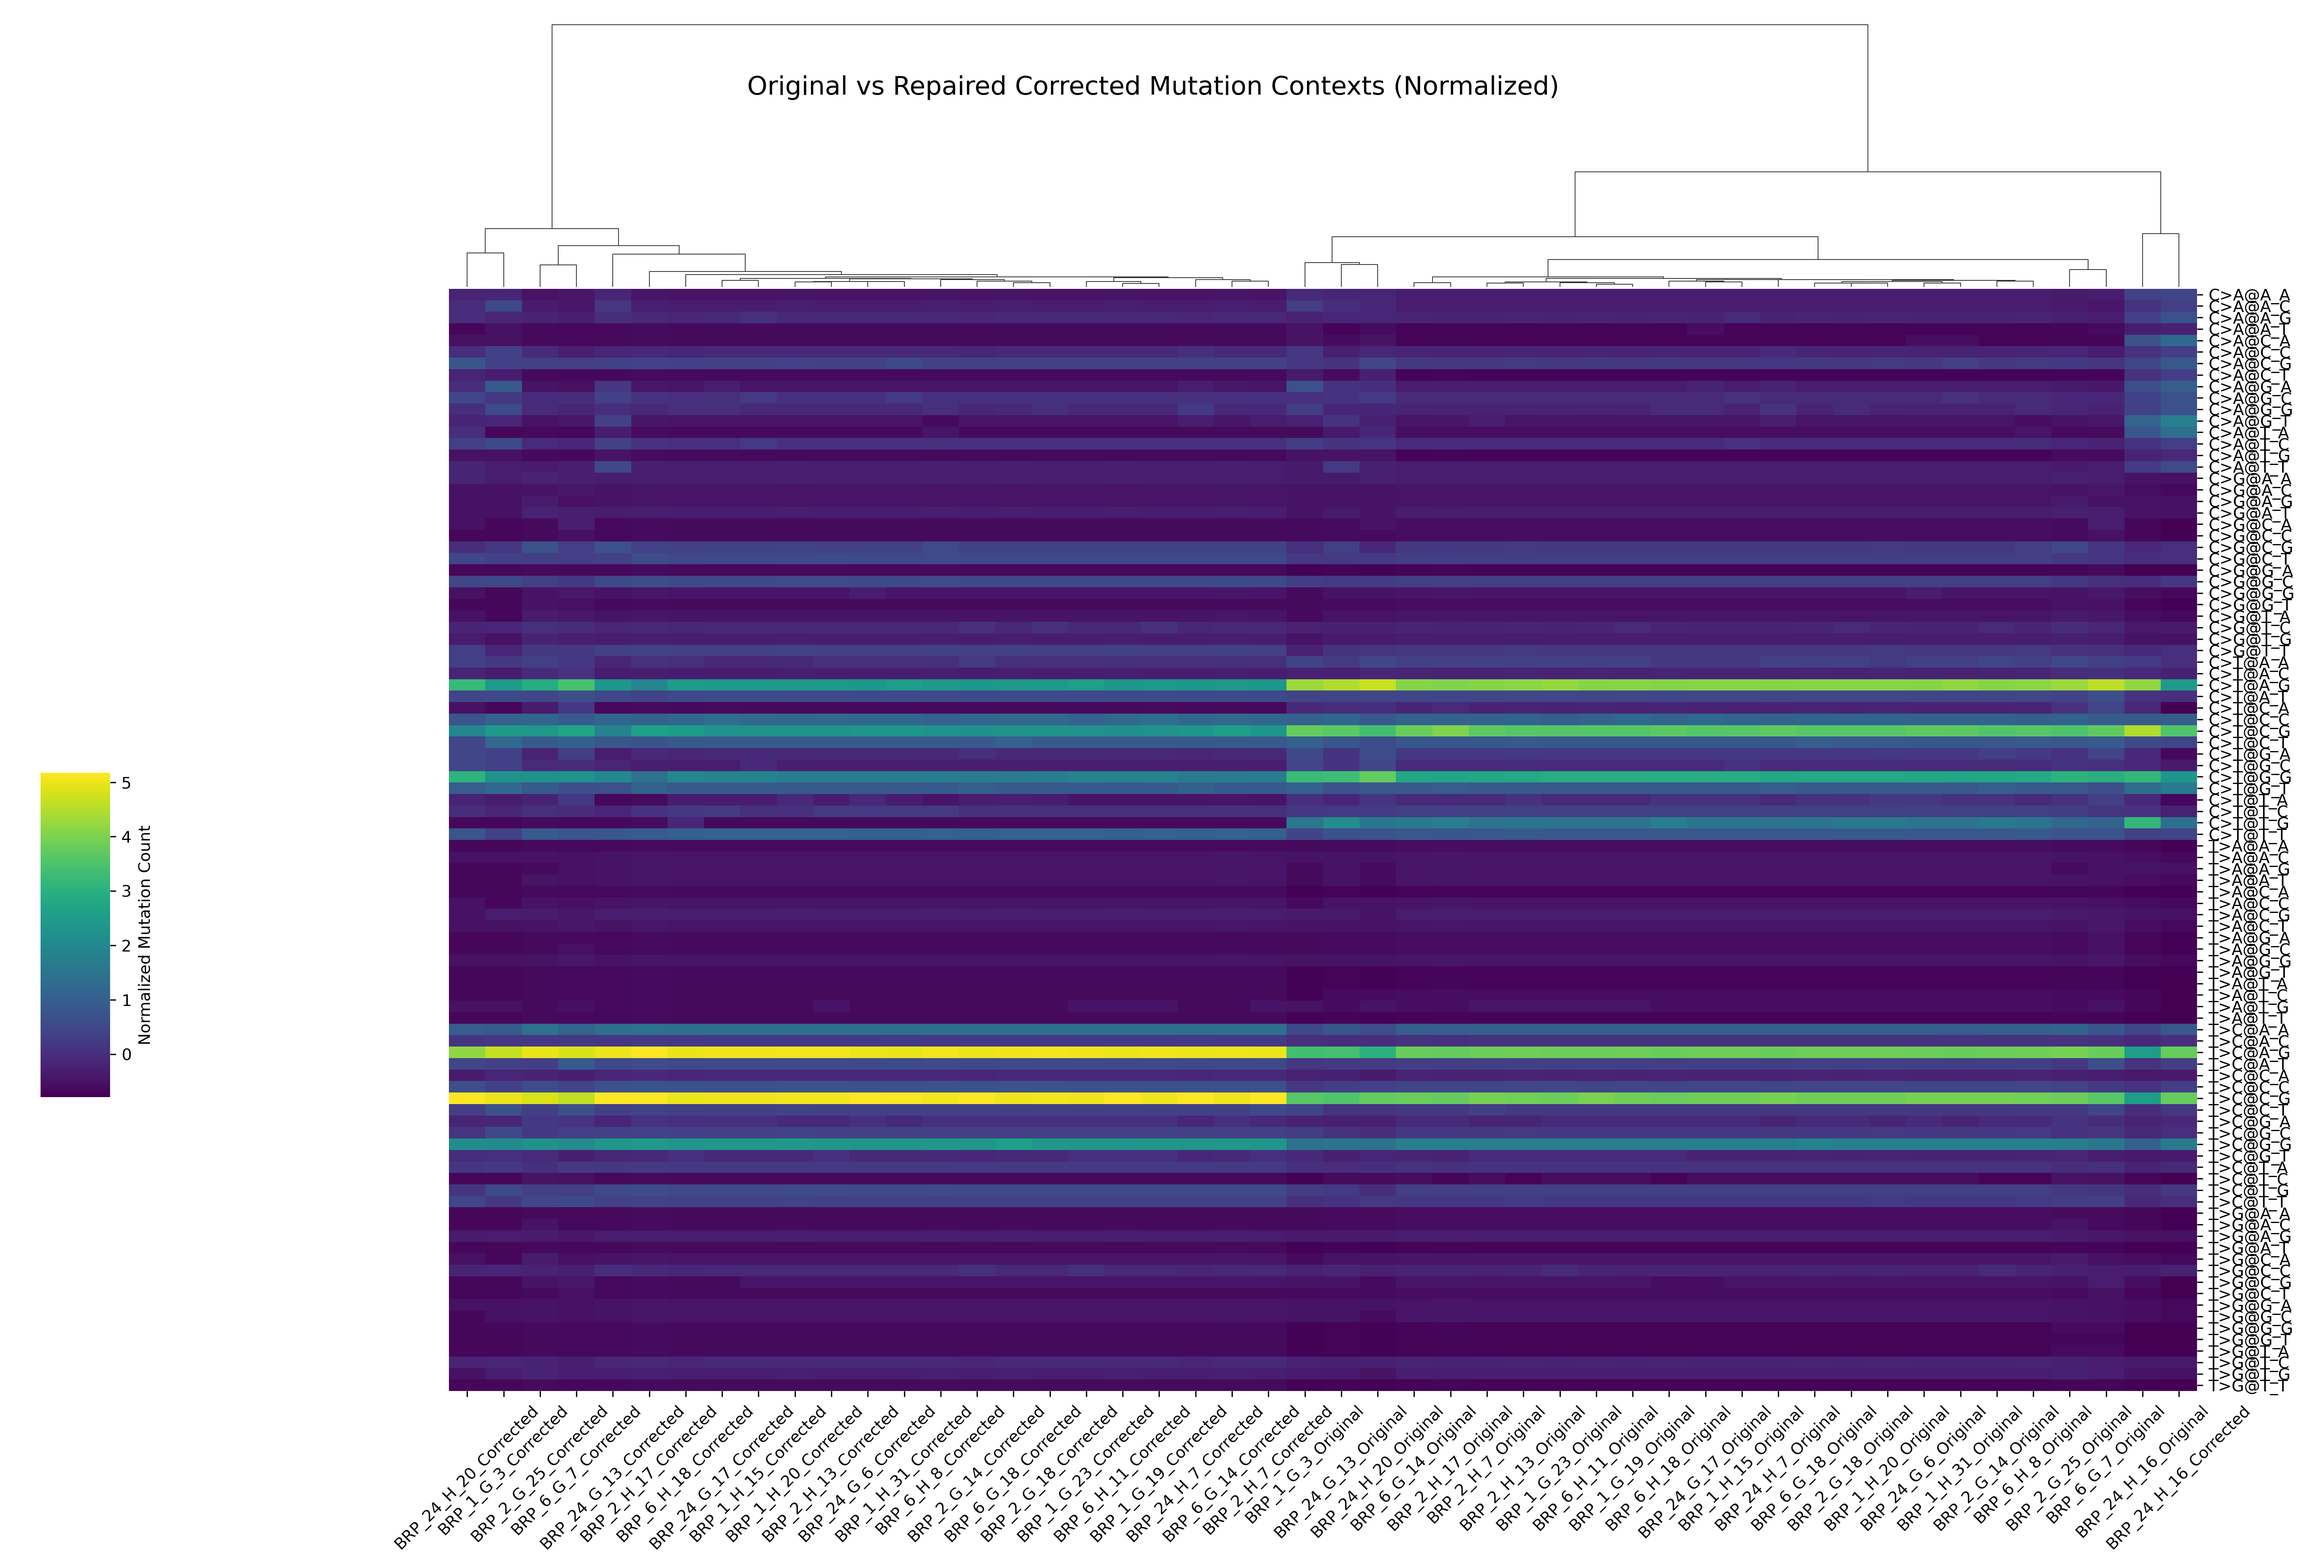
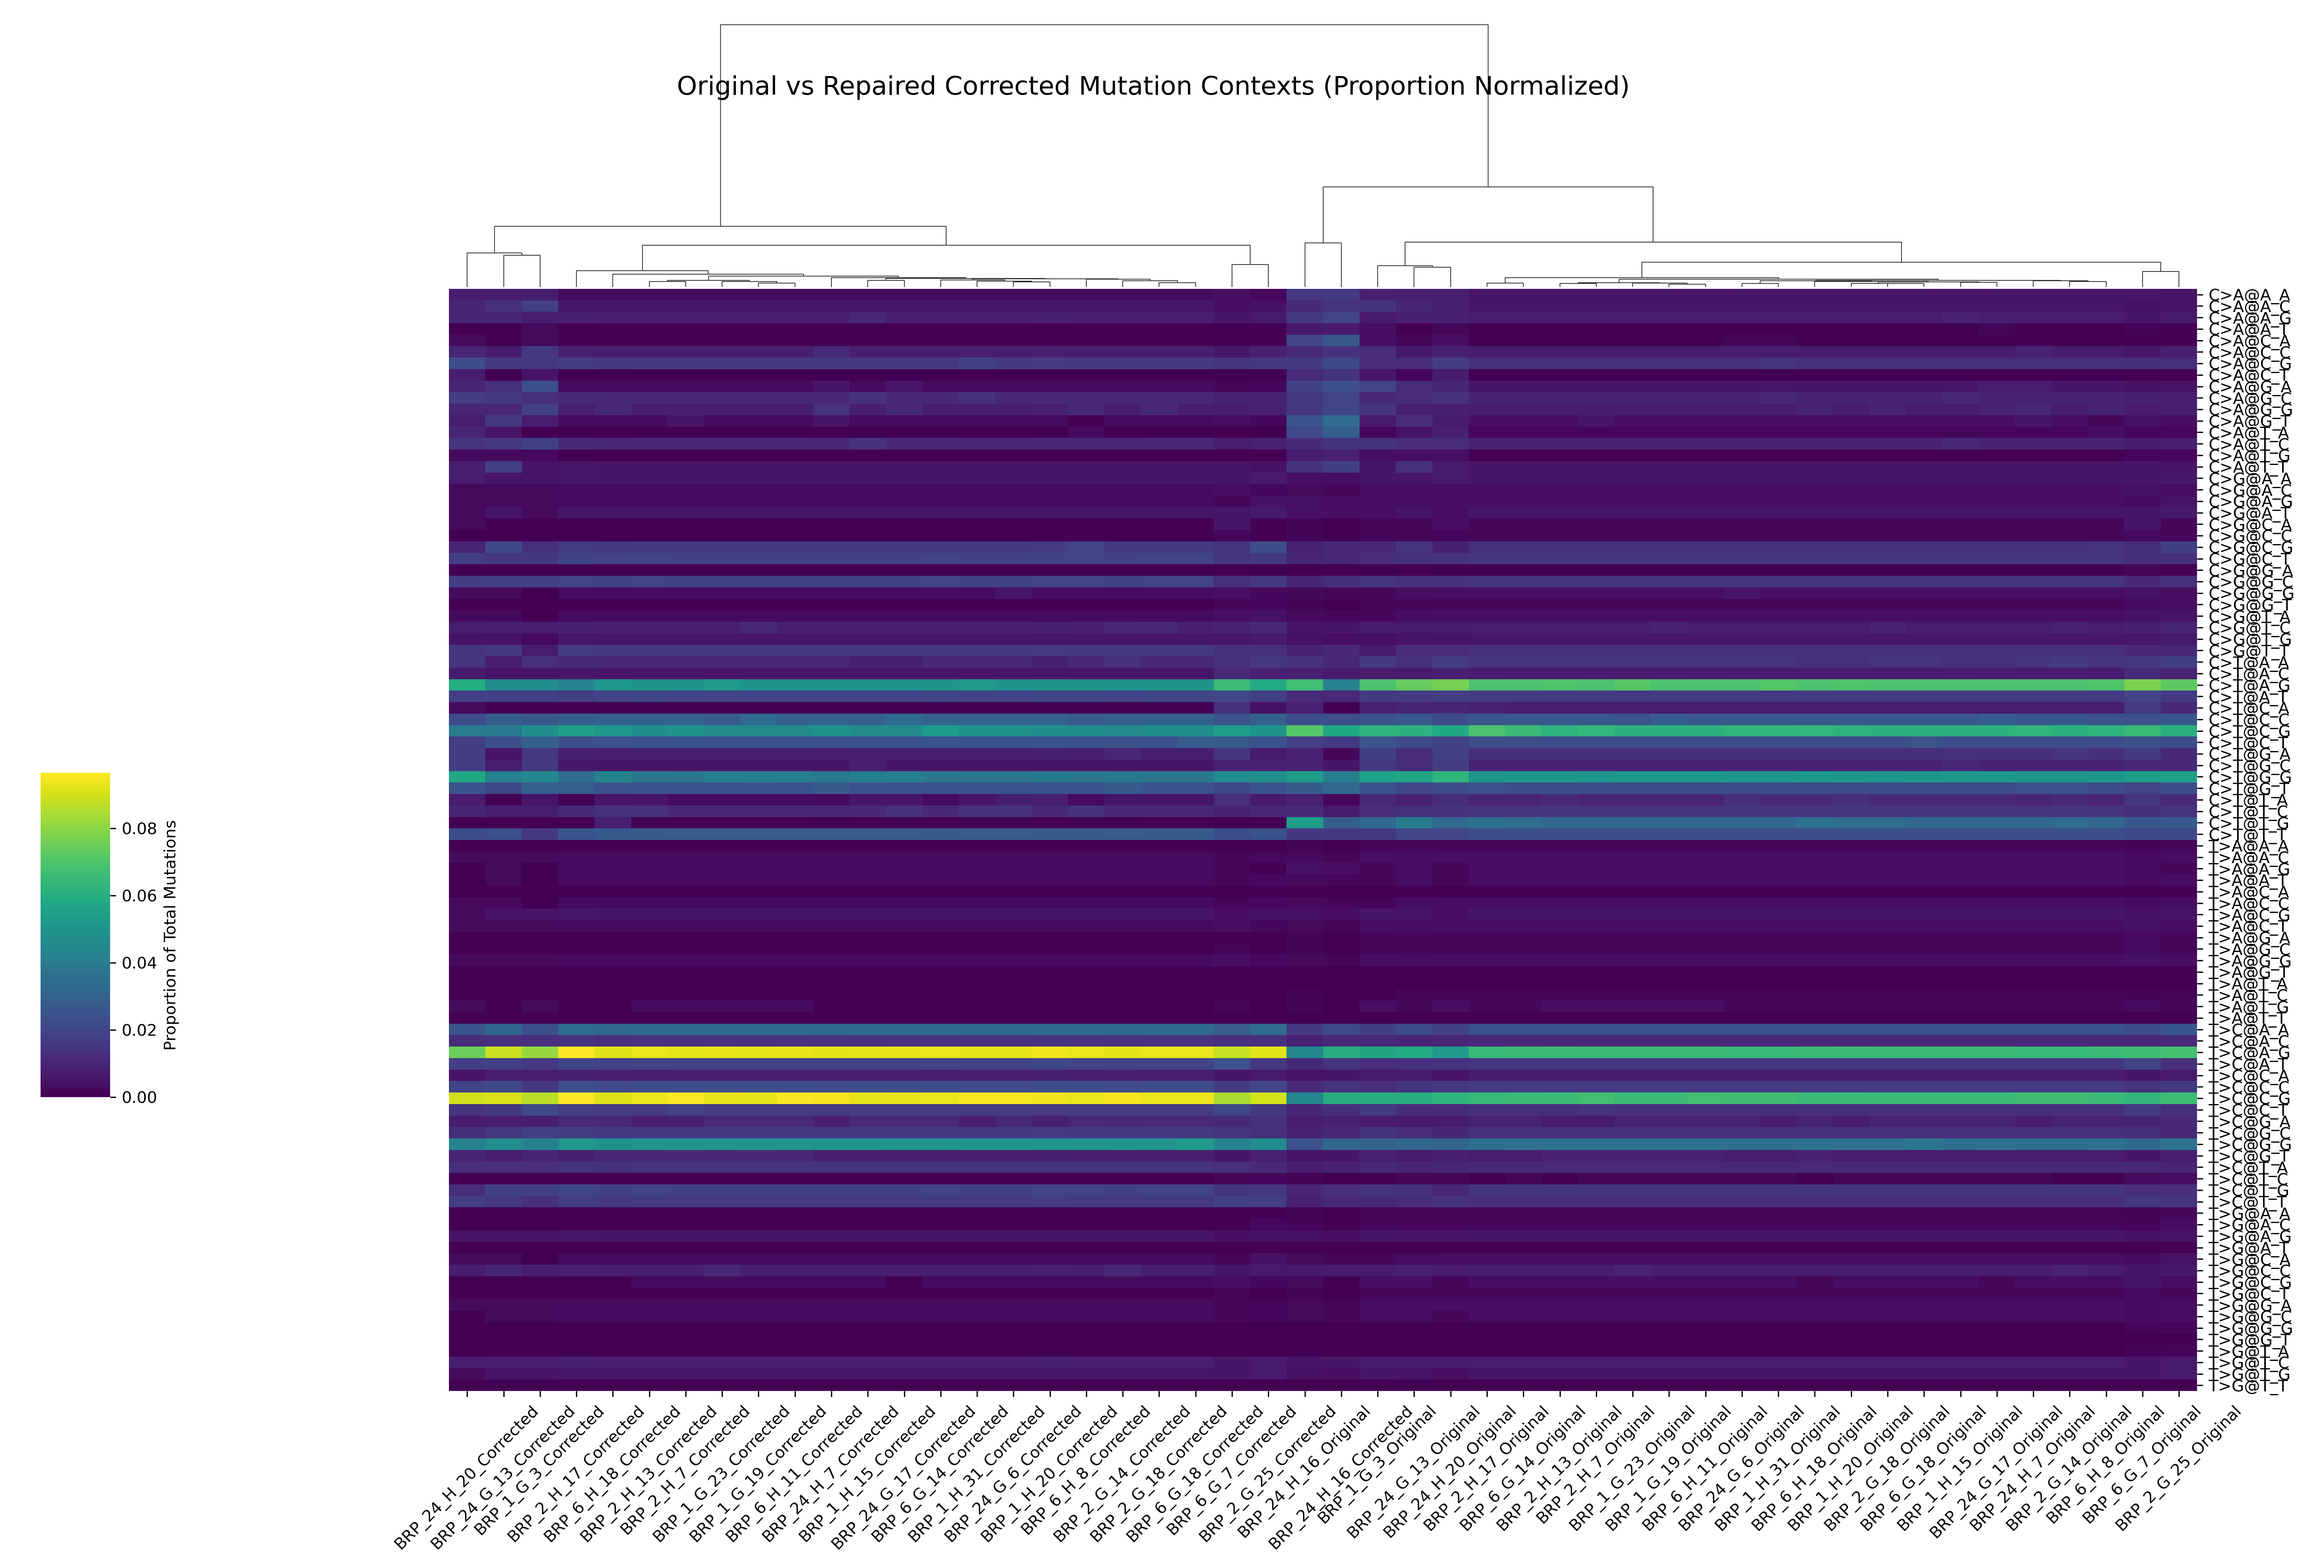
pca

diff --git a/scripts/heatmap.py b/scripts/heatmap.py
@@ -4,6 +4,8 @@ import seaborn as sns
 import os
 from pathlib import Path
 import numpy as np
+from sklearn.decomposition import PCA
+
 
 def create_heatmap(df, title, filename, figsize=(15, 12), cluster_samples=True):
     """
@@ -48,6 +50,145 @@ def create_heatmap(df, title, filename, figsize=(15, 12), cluster_samples=True):
         plt.savefig(filename, dpi=300, bbox_inches='tight')
         plt.close()
         print(f"✓ Saved {filename}")
+
+def create_pca_plot(df, title, filename, figsize=(12, 10)):
+    """
+    Create a PCA plot from a dataframe and save it
+    """
+    try:
+        # Transpose the dataframe so samples are rows and features are columns
+        df_t = df.T
+        
+        # Normalize by total counts per sample
+        df_scaled = df_t.copy()
+        for col in df_scaled.columns:
+            total_counts = df_scaled[col].sum()
+            if total_counts > 0:  # Avoid division by zero
+                df_scaled[col] = df_scaled[col] / total_counts
+        
+        # Perform PCA
+        pca = PCA()
+        pca_result = pca.fit_transform(df_scaled)
+        
+        # Calculate explained variance
+        explained_variance = pca.explained_variance_ratio_
+        cumulative_variance = np.cumsum(explained_variance)
+        
+        # Parse sample names to extract time and block information
+        def parse_sample_info(sample_name):
+            """Extract time and block from sample name like 'BRP_1_G_3'"""
+            parts = sample_name.split('_')
+            if len(parts) >= 3:
+                time = parts[1]  # e.g., '1', '2', '6', '24'
+                block = parts[2]  # e.g., 'G', 'H'
+                return time, block
+            return None, None
+        
+        # Create color mappings
+        times = []
+        blocks = []
+        for sample in df_t.index:
+            time, block = parse_sample_info(sample)
+            times.append(time)
+            blocks.append(block)
+        
+        # Create two separate PCA plots with different color schemes
+        
+        # Plot 1: Color by time
+        plt.figure(figsize=(10, 8))
+        time_colors = {'1': 'red', '2': 'blue', '6': 'green', '24': 'purple'}
+        time_color_list = [time_colors.get(t, 'gray') for t in times]
+        
+        scatter = plt.scatter(pca_result[:, 0], pca_result[:, 1], 
+                             c=time_color_list, s=100, alpha=0.7, 
+                             edgecolors='black', linewidth=0.5)
+        
+        # Add sample labels
+        for i, sample in enumerate(df_t.index):
+            plt.annotate(sample, (pca_result[i, 0], pca_result[i, 1]), 
+                        xytext=(5, 5), textcoords='offset points', 
+                        fontsize=8, alpha=0.8)
+        
+        plt.xlabel(f'PC1 ({explained_variance[0]:.1%} variance)')
+        plt.ylabel(f'PC2 ({explained_variance[1]:.1%} variance)')
+        plt.title('PCA of Mutation Profiles - Colored by Time')
+        
+        # Add legend for time colors
+        legend_elements = [plt.Line2D([0], [0], marker='o', color='w', 
+                                     markerfacecolor=color, markersize=10, 
+                                     label=f'{time}h') 
+                          for time, color in time_colors.items()]
+        plt.legend(handles=legend_elements, title='Time')
+        
+        plt.grid(True, alpha=0.3)
+        plt.tight_layout()
+        plt.savefig(filename, dpi=300, bbox_inches='tight')
+        plt.close()
+        
+        print(f"✓ Saved {filename}")
+        
+        # Plot 2: Color by block
+        block_filename = filename.replace('.png', '_by_block.png')
+        plt.figure(figsize=(10, 8))
+        block_colors = {'G': 'orange', 'H': 'cyan'}
+        block_color_list = [block_colors.get(b, 'gray') for b in blocks]
+        
+        scatter = plt.scatter(pca_result[:, 0], pca_result[:, 1], 
+                             c=block_color_list, s=100, alpha=0.7, 
+                             edgecolors='black', linewidth=0.5)
+        
+        # Add sample labels
+        for i, sample in enumerate(df_t.index):
+            plt.annotate(sample, (pca_result[i, 0], pca_result[i, 1]), 
+                        xytext=(5, 5), textcoords='offset points', 
+                        fontsize=8, alpha=0.8)
+        
+        plt.xlabel(f'PC1 ({explained_variance[0]:.1%} variance)')
+        plt.ylabel(f'PC2 ({explained_variance[1]:.1%} variance)')
+        plt.title('PCA of Mutation Profiles - Colored by Block')
+        
+        # Add legend for block colors
+        legend_elements = [plt.Line2D([0], [0], marker='o', color='w', 
+                                     markerfacecolor=color, markersize=10, 
+                                     label=f'Block {block}') 
+                          for block, color in block_colors.items()]
+        plt.legend(handles=legend_elements, title='Block')
+        
+        plt.grid(True, alpha=0.3)
+        plt.tight_layout()
+        plt.savefig(block_filename, dpi=300, bbox_inches='tight')
+        plt.close()
+        
+        print(f"✓ Saved {block_filename}")
+        
+        # Create elbow plot (explained variance)
+        elbow_filename = filename.replace('.png', '_elbow.png')
+        plt.figure(figsize=(10, 8))
+        plt.plot(range(1, len(explained_variance) + 1), cumulative_variance, 
+                'bo-', linewidth=2, markersize=6)
+        plt.axhline(y=0.8, color='r', linestyle='--', alpha=0.7, label='80% variance')
+        plt.axhline(y=0.9, color='orange', linestyle='--', alpha=0.7, label='90% variance')
+        plt.axhline(y=0.95, color='green', linestyle='--', alpha=0.7, label='95% variance')
+        
+        plt.xlabel('Number of Principal Components')
+        plt.ylabel('Cumulative Explained Variance')
+        plt.title('Explained Variance by Principal Components')
+        plt.legend()
+        plt.grid(True, alpha=0.3)
+        plt.tight_layout()
+        plt.savefig(elbow_filename, dpi=300, bbox_inches='tight')
+        plt.close()
+        
+        print(f"✓ Saved {elbow_filename}")
+        
+        # Print PCA information
+        print(f"  • First 2 PCs explain {cumulative_variance[1]:.1%} of variance")
+        print(f"  • PCs needed for 80% variance: {np.argmax(cumulative_variance >= 0.8) + 1}")
+        print(f"  • PCs needed for 90% variance: {np.argmax(cumulative_variance >= 0.9) + 1}")
+        print(f"  • PCs needed for 95% variance: {np.argmax(cumulative_variance >= 0.95) + 1}")
+        
+    except Exception as e:
+        print(f"⚠  Error creating PCA plot: {e}")
 
 def main():
     # Create results directory if it doesn't exist
@@ -100,6 +241,12 @@ def main():
         create_heatmap(df_sel, 
                       "Original Mutation Context Heatmap", 
                       "results/heatmap_original.png")
+        
+        # Create PCA plot for original mutation matrix
+        print("Creating PCA plot for original mutation matrix...")
+        create_pca_plot(df_sel, 
+                       "PCA Analysis of Original Mutation Profiles", 
+                       "results/pca_original_mutations.png")
     else:
         print(f"⚠  Skipping original heatmap - data not loaded")
     
@@ -110,9 +257,6 @@ def main():
         available_samples = [s for s in selected if s in df_unrepaired.columns]
         if available_samples:
             df_unrepaired_sel = df_unrepaired[available_samples]
-            # Sort columns alphanumerically
-            sorted_columns = sorted(df_unrepaired_sel.columns, key=str)
-            df_unrepaired_sel = df_unrepaired_sel[sorted_columns]
             
             # Use original row labels if available
             if df_orig is not None and len(df_unrepaired_sel) == len(df_orig):
@@ -133,9 +277,6 @@ def main():
         available_samples = [s for s in selected if s in df_repaired.columns]
         if available_samples:
             df_repaired_sel = df_repaired[available_samples]
-            # Sort columns alphanumerically
-            sorted_columns = sorted(df_repaired_sel.columns, key=str)
-            df_repaired_sel = df_repaired_sel[sorted_columns]
             
             # Use original row labels if available
             if df_orig is not None and len(df_repaired_sel) == len(df_orig):
@@ -176,19 +317,17 @@ def main():
                 if len(df_comparison) == len(df_orig):
                     df_comparison.index = df_orig.index
                 
-                # Normalize the data (Z-score normalization)
-                from sklearn.preprocessing import StandardScaler
-                scaler = StandardScaler()
-                df_comparison_normalized = pd.DataFrame(
-                    scaler.fit_transform(df_comparison),
-                    index=df_comparison.index,
-                    columns=df_comparison.columns
-                )
+                # Normalize the data by total counts per sample
+                df_comparison_normalized = df_comparison.copy()
+                for col in df_comparison_normalized.columns:
+                    total_counts = df_comparison_normalized[col].sum()
+                    if total_counts > 0:  # Avoid division by zero
+                        df_comparison_normalized[col] = df_comparison_normalized[col] / total_counts
                 
                 # Create clustermap with normalized data clustering
                 g = sns.clustermap(df_comparison_normalized,
                                   cmap="viridis",
-                                  cbar_kws={'label': 'Normalized Mutation Count'},
+                                  cbar_kws={'label': 'Proportion of Total Mutations'},
                                   yticklabels=True,  # Show mutation type names
                                   xticklabels=True,
                                   figsize=(20, 14),
@@ -200,7 +339,7 @@ def main():
                                   cbar_pos=(0.02, 0.32, 0.03, 0.2))  # Position colorbar left
                 
                 # Set titles
-                g.fig.suptitle('Original vs Repaired Corrected Mutation Contexts (Normalized)\n', 
+                g.fig.suptitle('Original vs Repaired Corrected Mutation Contexts (Proportion Normalized)\n', 
                               fontsize=16, y=0.95)
                 
                 # Rotate x-axis labels
@@ -461,6 +600,9 @@ def main():
     print("\n🎉 Heatmap generation completed!")
     print("\n📊 Generated files:")
     print("  • Original heatmap: results/heatmap_original.png")
+    print("  • PCA plot (by time): results/pca_original_mutations_by_timepoint.png")
+    print("  • PCA plot (by block): results/pca_original_mutations_by_block.png")
+    print("  • PCA elbow plot: results/pca_original_mutations_elbow.png")
     print("  • Unrepaired corrected heatmap: results/heatmap_unrepaired_corrected.png")
     print("  • Repaired corrected heatmap: results/heatmap_repaired_corrected.png")
     print("  • Comparison heatmap (Original vs Corrected): results/heatmap_comparison.png")
